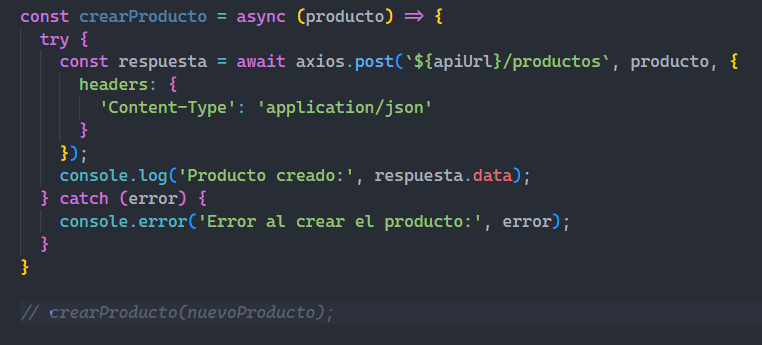
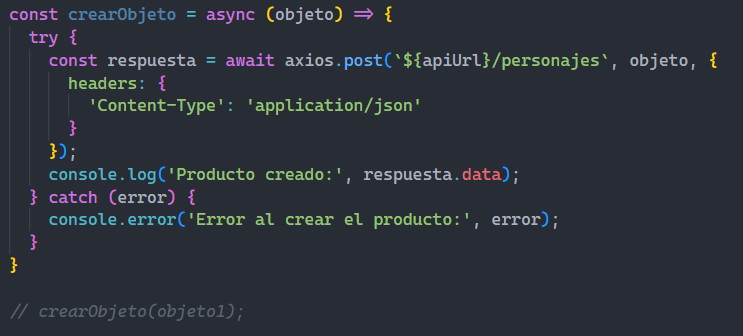
Actualizado indice, y guia terminada

diff --git a/app.js b/app.js
@@ -4,7 +4,7 @@ const apiUrl = 'http://localhost:5555';
 
 //Método GET
 
-const obtenerProductos = async () => {
+const obtenerObjetos = async () => {
   try {
     const respuesta = await axios.get(`${apiUrl}/personajes/`);
     console.log('Lista de personajes:', respuesta.data)
@@ -13,7 +13,7 @@ const obtenerProductos = async () => {
   }
 }
 
-obtenerProductos();
+obtenerObjetos();
 
 const objeto1 = {
   "id": 5,
@@ -63,7 +63,7 @@ const actualizarObjeto = async (objeto) => {
 
 //Método DELETE
 
-const eliminarRecurso = async (id) => {
+const eliminarObjeto = async (id) => {
   try {
     const respuesta = await axios.delete(`${apiUrl}/personajes/${id}`);
     console.log('Recurso eliminado con éxito:', respuesta.data);
@@ -72,4 +72,4 @@ const eliminarRecurso = async (id) => {
   }
 }
 
-eliminarRecurso(4);
+eliminarObjeto(4);

diff --git a/api-json.md b/api-json.md
@@ -6,11 +6,17 @@ Este documento fue creado con fines educativos para explicar cómo hacer una api
 
 # Tabla de contenidos
 
-1. [Introducción](#introducción)
-   1. [Petición XHR](#petición-xhr)
-   2. [Petición Axios](#petición-axios)
-2. [Instalaciones necesarias](#instalaciones-necesarias)
-3. [Primeros pasos en Axios](#primeros-pasos-en-axios)
+1. [Instalaciones necesarias](#instalaciones-necesarias)
+2. [Primeros pasos - json-server](#primeros-pasos---json-server)
+   1. [Primer ejercicio](#primer-ejercicio)
+3. [Método GET](#método-get)
+4. [Método POST](#método-post)
+   1. [Segundo ejercicio](#segundo-ejercicio)
+   2. [Tercer ejercicio](#tercer-ejercicio)
+5. [Método PUT](#método-put)
+   1. [Cuarto ejercicio](#cuarto-ejercicio)
+   2. [Quinto ejercicio](#quinto-ejercicio)
+6. [Método DELETE](#método-delete)
 
 # Instalaciones necesarias
 
@@ -117,7 +123,7 @@ import axios from 'axios'
 
 const apiUrl = 'http://localhost:5555';
 
-const obtenerProductos = async () => {
+const obtenerObjetos = async () => {
   try {
     const respuesta = await axios.get(`${apiUrl}/productos/`);
     console.log('Lista de productos:', respuesta.data)
@@ -126,7 +132,7 @@ const obtenerProductos = async () => {
   }
 }
 
-obtenerProductos();
+obtenerObjetos();
 ```
 
 Después abrimos otra terminal aparte de la que estamos ejecutando, nos aseguramos de estar dentro de la carpeta **json-server**, y ejecutamos el archivo **app.js** con el siguiente comando:
@@ -162,13 +168,13 @@ Una vez hecho esto, volvemos a ejecutar **app.js** con node desde la terminal, y
 Ahora enviaremos un nuevo producto mediante POST, la estructura no es muy diferente del GET. Esta la estructura que usaremos:
 
 ``` javascript
-const nuevoProducto = {
+const objeto1 = {
   "id": 5,
   "nombre": "Agua cristal",
   "precio": 1200
 }
 
-const crearProducto = async (producto) => {
+const crearObjeto = async (producto) => {
   try {
     const respuesta = await axios.post(url, producto, header);
     console.log('Producto creado:', respuesta.data);
@@ -177,10 +183,10 @@ const crearProducto = async (producto) => {
   }
 }
 
-crearProducto(nuevoProducto);
+crearObjeto(objeto1);
 ```
 
-En este código, vemos que hay un parámetro producto en `crearProducto()`, este lo crearemos por fuera para enviarselo a la función. Luego, vemos que en la petición tenemos tres parámetros: **url**, **producto** y **header**. Conocemos la url y hablaremos de los otros. Producto hace referencia al elemento que enviaremos desde afuera como argumento a la función. Y finamente, header hace referencia a metadatos (datos sobre los datos) que nos permiten establecer una "configuración" de la petición.
+En este código, vemos que hay un parámetro producto en `crearObjeto()`, este lo crearemos por fuera para enviarselo a la función. Luego, vemos que en la petición tenemos tres parámetros: **url**, **producto** y **header**. Conocemos la url y hablaremos de los otros. Producto hace referencia al elemento que enviaremos desde afuera como argumento a la función. Y finamente, header hace referencia a metadatos (datos sobre los datos) que nos permiten establecer una "configuración" de la petición.
 
 Por otro lado, hay otra manera de hacer una petición y es de la siguiente manera:
 
@@ -200,13 +206,13 @@ Como podemos observar, tenemos un objeto que se divide en cuatro partes donde te
 El código implementado de esa manera se vería así:
 
 ``` javascript
-const nuevoProducto = {
+const objeto1 = {
   "id": 5,
   "nombre": "Agua Cristal",
   "precio": 1200
 }
 
-const crearProducto = async (producto) => {
+const crearObjeto = async (producto) => {
   try {
     const respuesta = await axios({
       method: 'post',
@@ -222,19 +228,19 @@ const crearProducto = async (producto) => {
   }
 }
 
-crearProducto(nuevoProducto);
+crearObjeto(objeto1);
 ```
 
 De igual manera, podemos seguir trabajando con la estructura anterior:
 
 ``` javascript
-const nuevoProducto = {
+const objeto1 = {
   "id": 5,
   "nombre": "Agua Cristal",
   "precio": 1200
 }
 
-const crearProducto = async (producto) => {
+const crearObjeto = async (producto) => {
   try {
     const respuesta = await axios.post(`${apiUrl}/productos`, producto, {
       headers: {
@@ -247,7 +253,7 @@ const crearProducto = async (producto) => {
   }
 }
 
-crearProducto(nuevoProducto);
+crearObjeto(objeto1);
 ```
 
 Ahora lo implementaremos, vamos a hacer un POST, la tarea es utilizar el segundo código y lo pondremos en **app.js**, debajo del código que hicimos antes.
@@ -339,7 +345,7 @@ Una vez ejecutamos y modificamos el registro de la BD, comentamos la línea que 
 Debajo del método PUT ponemos este código:
 
 ``` javascript
-const eliminarRecurso = async (id) => {
+const eliminarObjeto = async (id) => {
   try {
     const respuesta = await axios.delete(`${apiUrl}/recurso/${id}`);
     console.log('Recurso eliminado con éxito:', respuesta.data);
@@ -348,7 +354,7 @@ const eliminarRecurso = async (id) => {
   }
 }
 
-eliminarRecurso(4);
+eliminarObjeto(4);
 ```
 
 Verificamos el endpoint, y en la llamada de la función ponemos el objeto que queremos eliminar, recomiendo poner el id del ultimo elemento.
@@ -356,3 +362,7 @@ Verificamos el endpoint, y en la llamada de la función ponemos el objeto que qu
 Lo ejecutamos:
 
 ![Alt text](./images/delete.png)
+
+Hasta acá llega este taller básico de API REST con json-server y Axios, muchas gracias por llegar hasta acá :p.
+
+![imagen-gracias](https://animesher.com/orig/1/122/1224/12248/animesher.com_followers-thank-you-thanks-1224846.gif)
